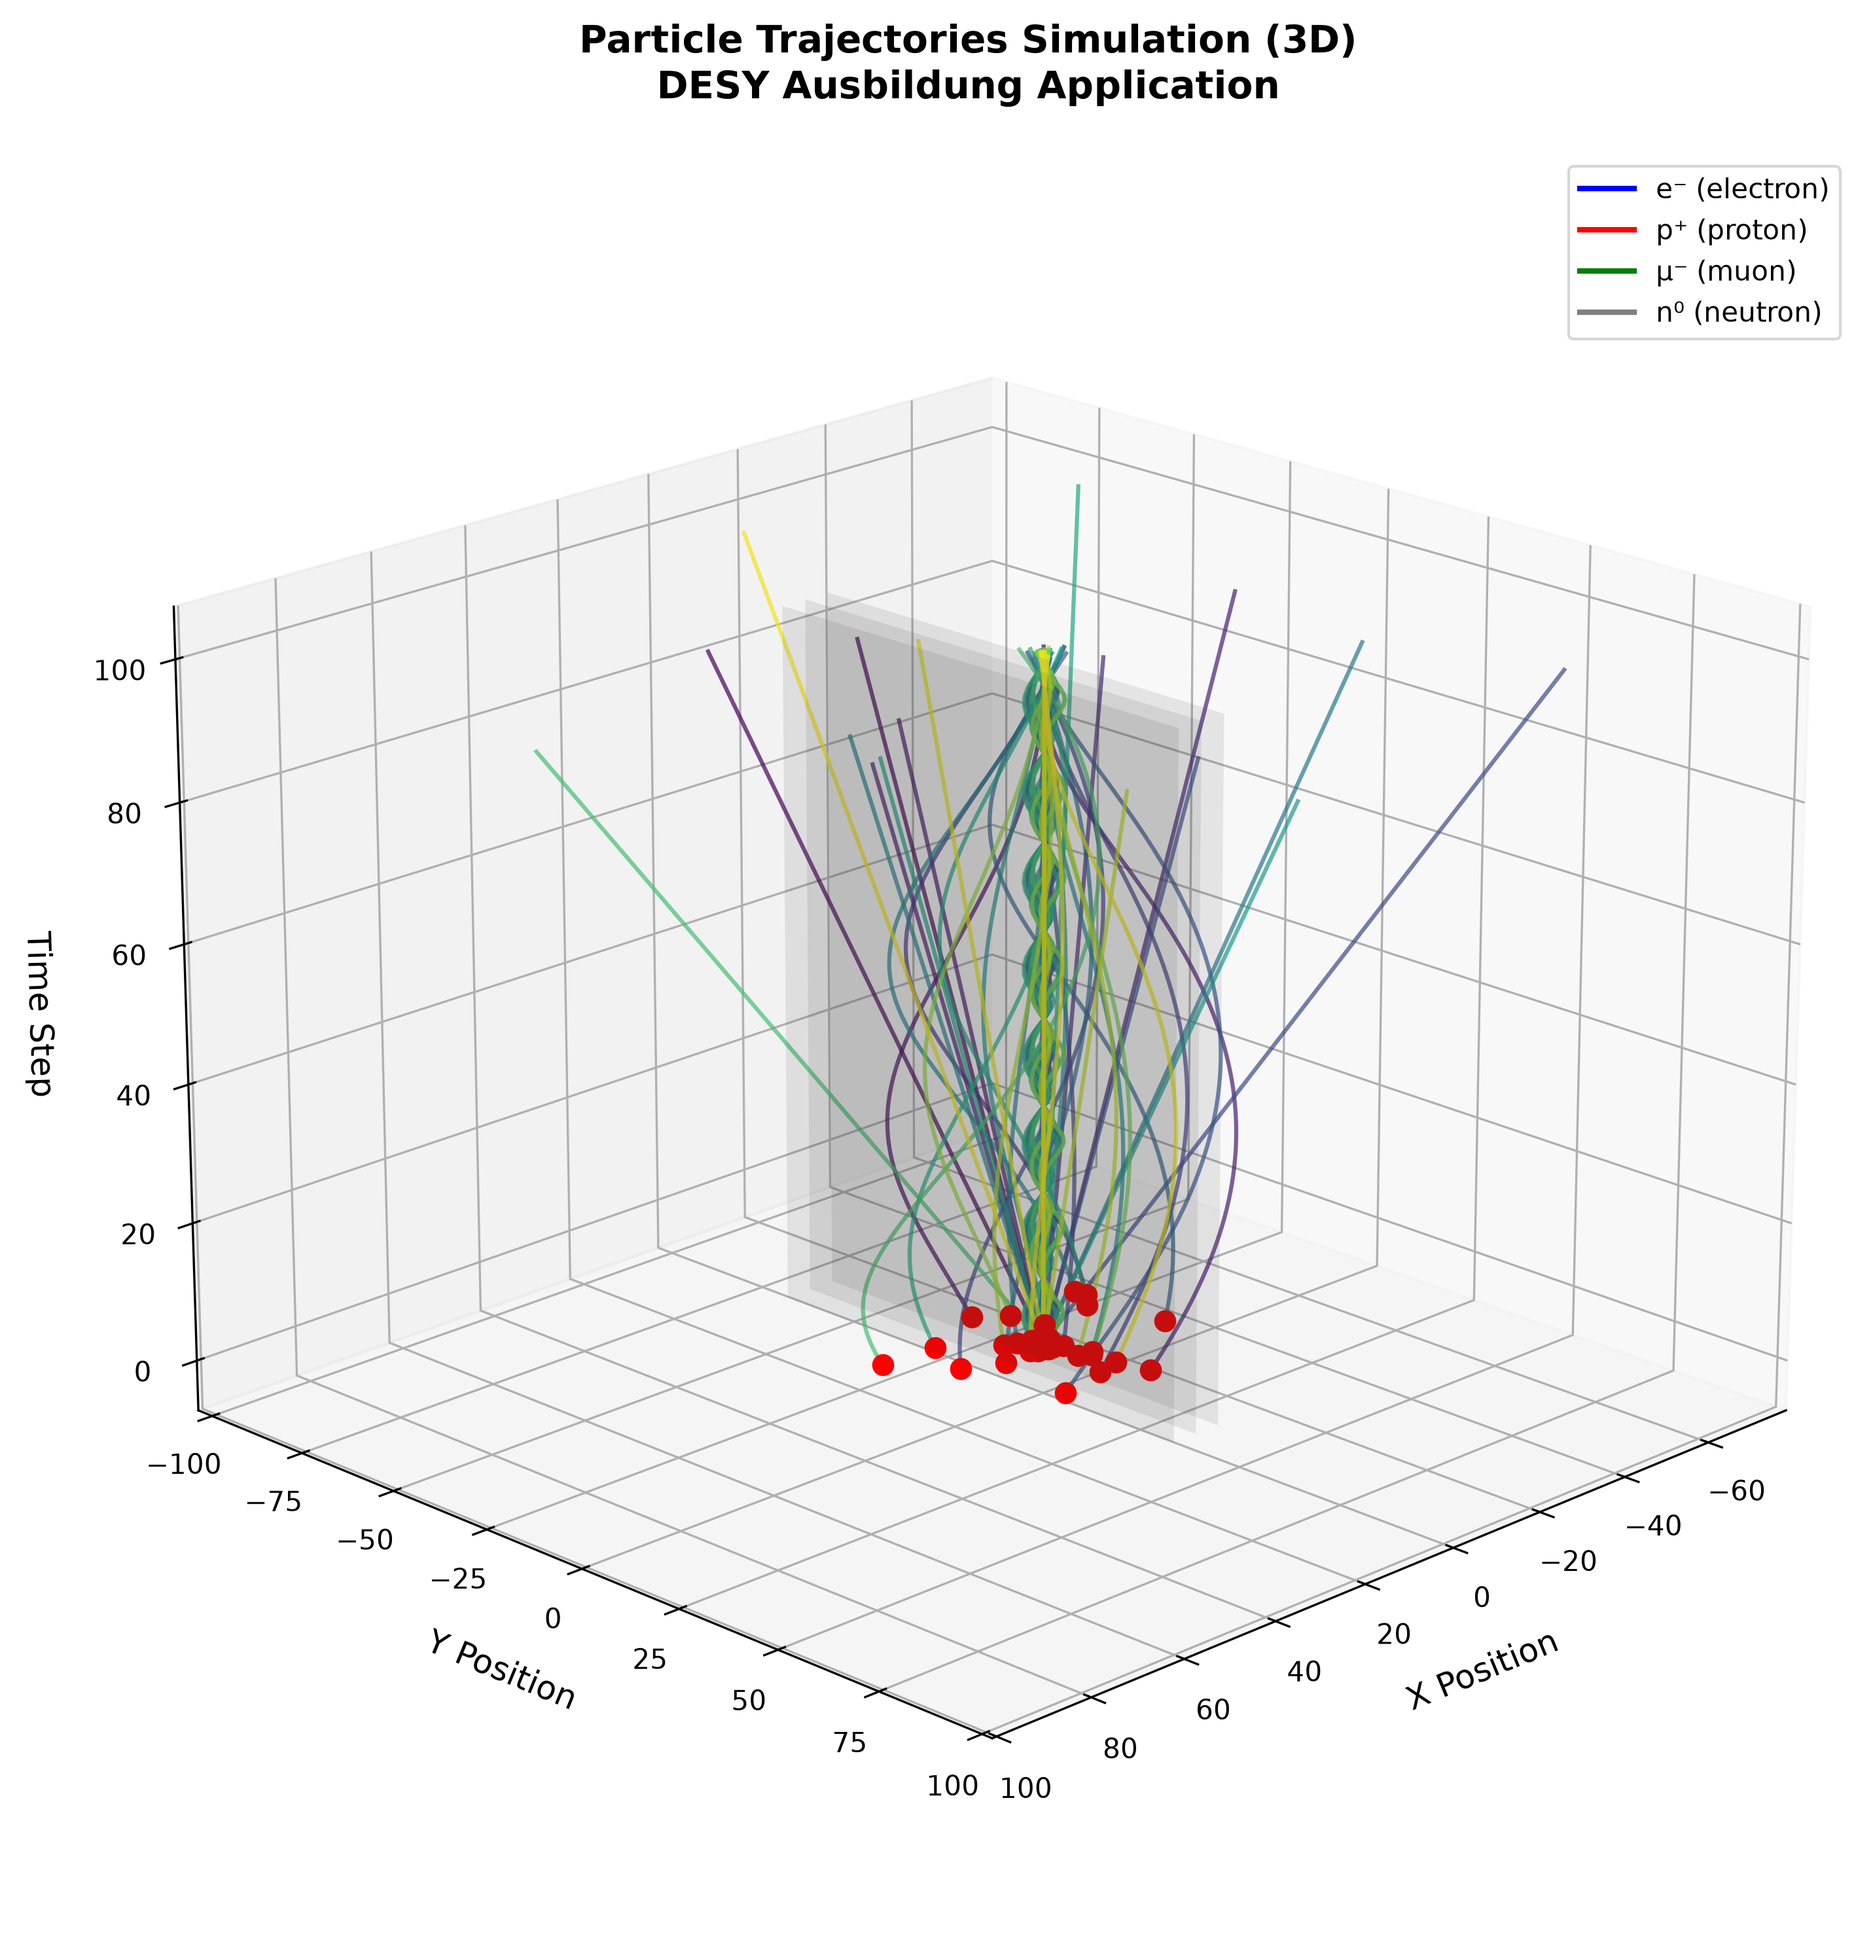
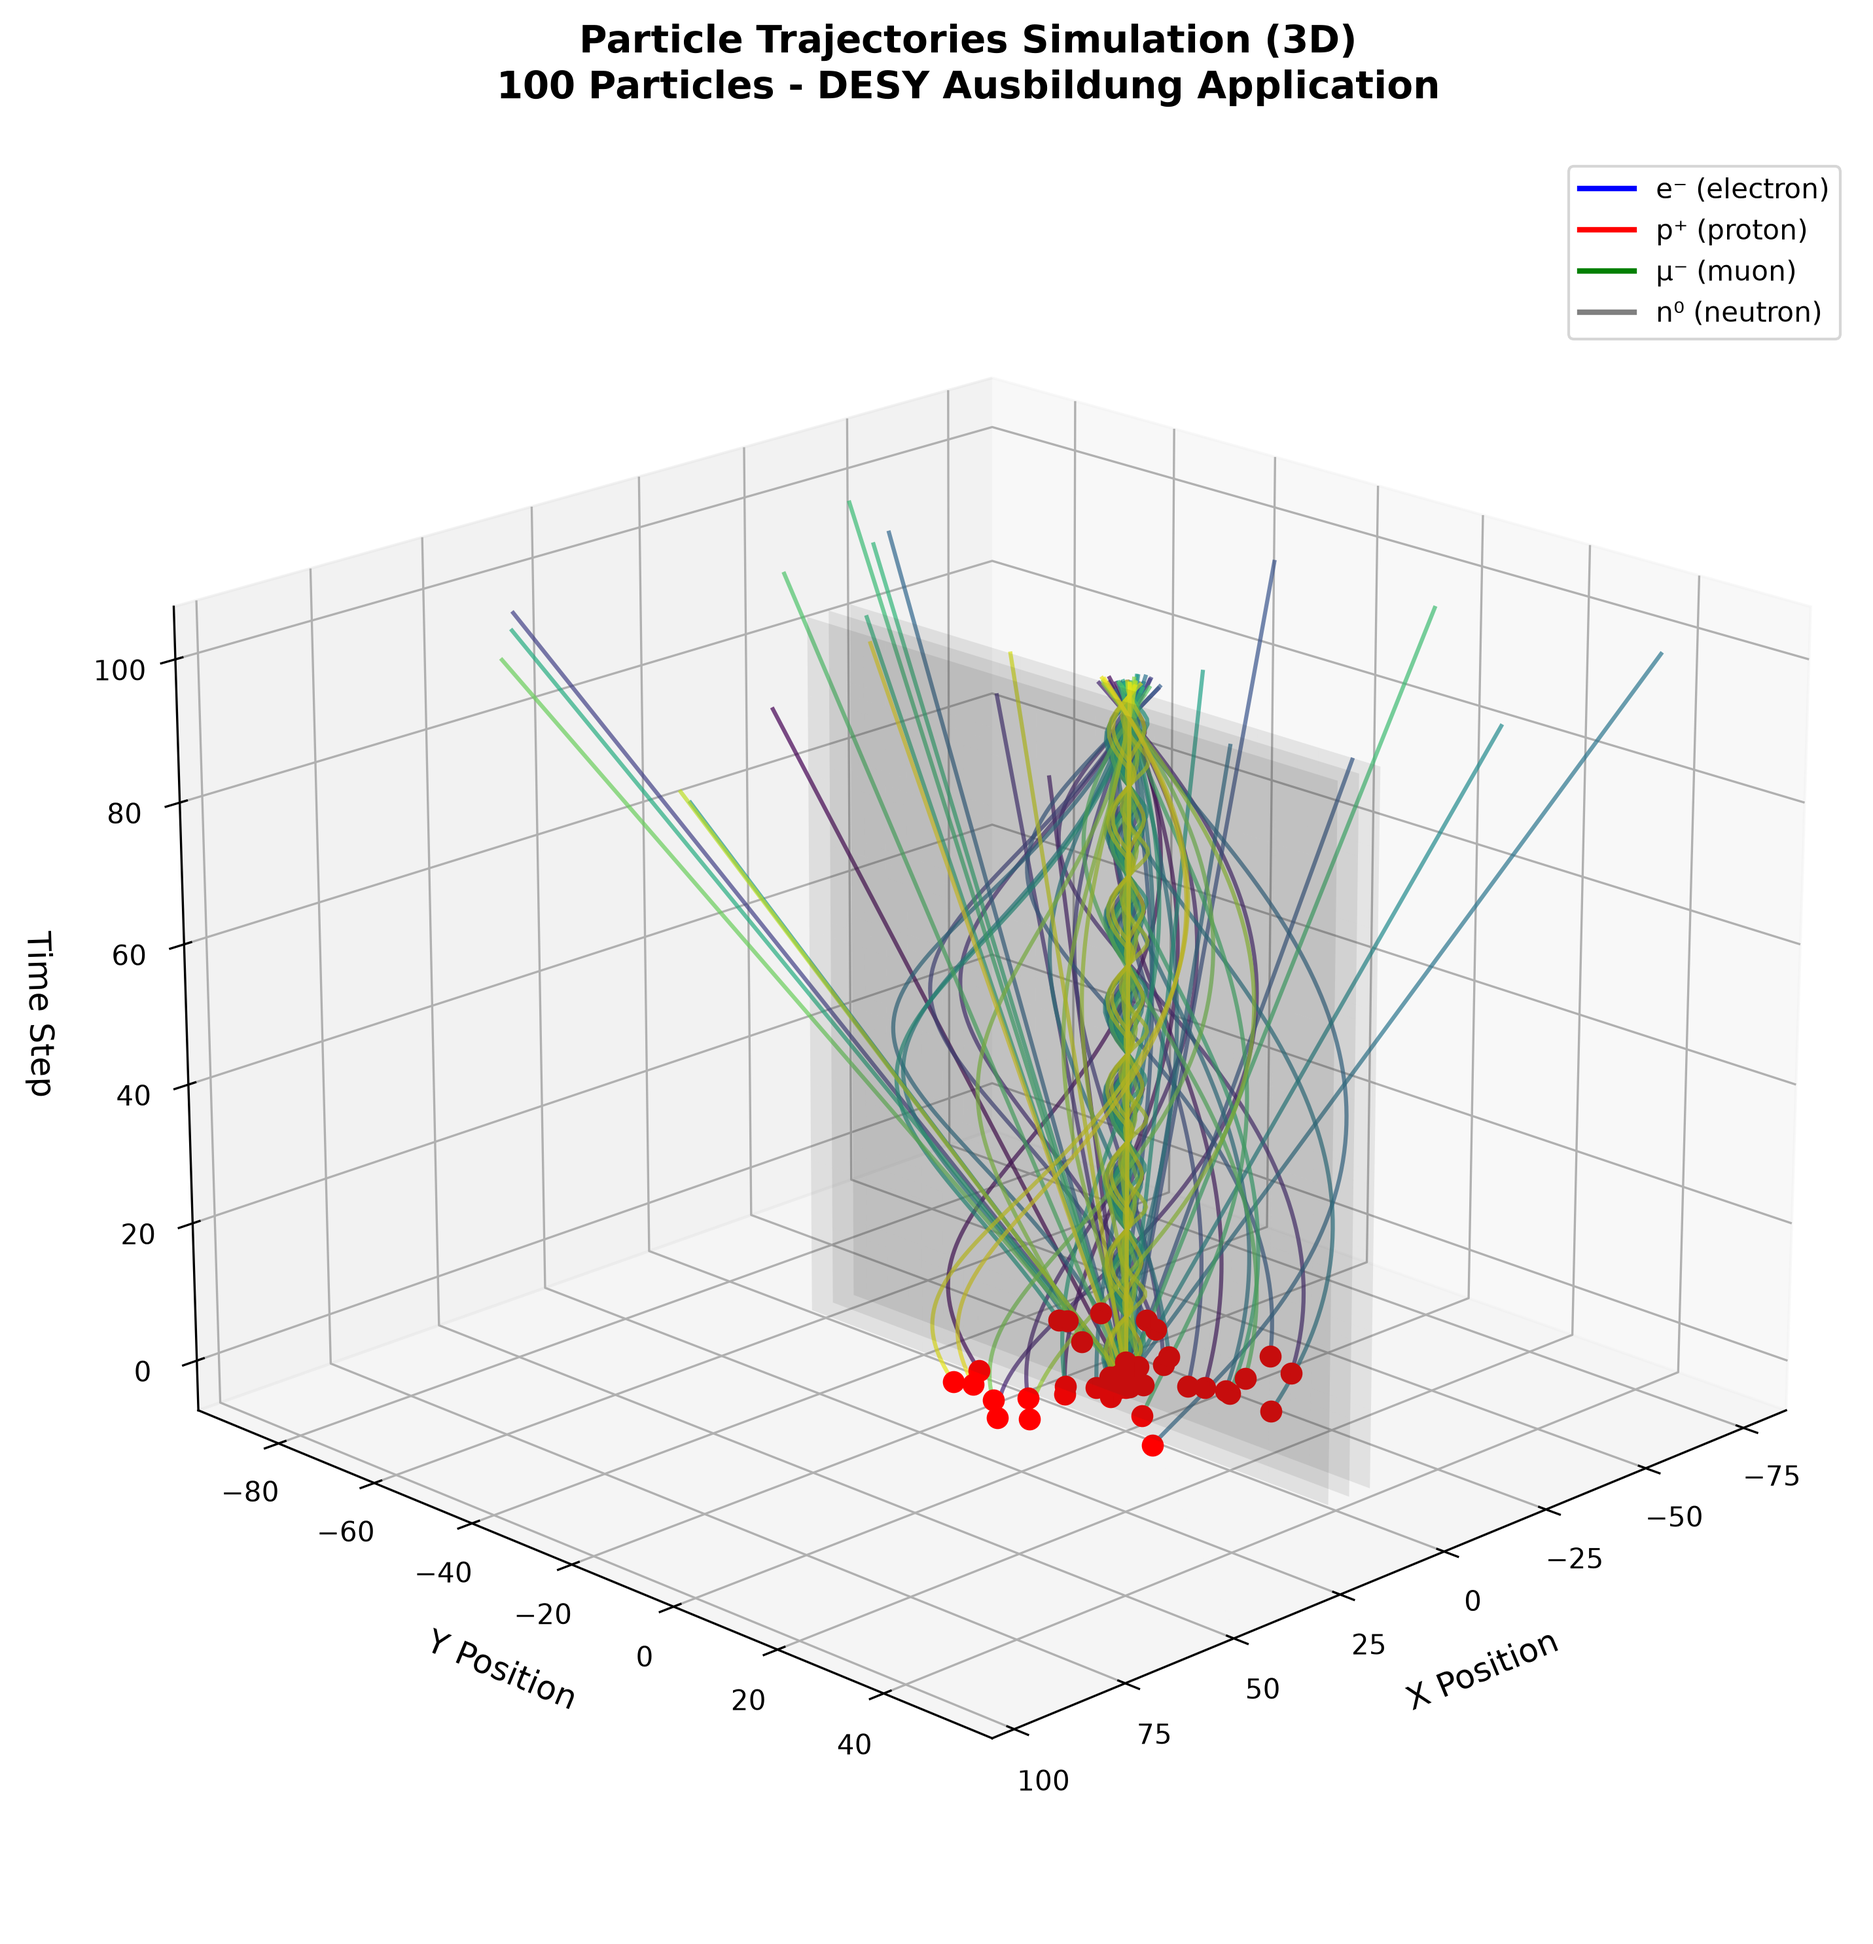
Final updates - ready for publication

diff --git a/main.py b/main.py
@@ -429,8 +429,8 @@ def plot_trajectories_3d(trajectories, detector_positions=None):
     ax.set_xlabel('X Position', fontsize=12, labelpad=10)
     ax.set_ylabel('Y Position', fontsize=12, labelpad=10)
     ax.set_zlabel('Time Step', fontsize=12, labelpad=10)
-    ax.set_title('Particle Trajectories Simulation (3D)\nDESY Ausbildung Application', 
-                 fontsize=14, fontweight='bold', pad=20)
+    ax.set_title(f'Particle Trajectories Simulation (3D)\n{len(trajectories)} Particles - DESY Ausbildung Application', 
+             fontsize=14, fontweight='bold', pad=20)
     
     # Add grid
     ax.grid(True, alpha=0.3)
@@ -510,8 +510,8 @@ def animate_trajectories(trajectories, particle_info=None, detector_positions=No
     # Labels and title
     ax.set_xlabel('X Position', fontsize=12)
     ax.set_ylabel('Y Position', fontsize=12)
-    ax.set_title('Particle Trajectories Animation\nDESY Ausbildung Application', 
-                 fontsize=14, fontweight='bold')
+    ax.set_title(f'Particle Trajectories Animation\n{len(trajectories)} Particles - DESY Ausbildung Application', 
+             fontsize=14, fontweight='bold')
     ax.grid(True, alpha=0.3)
     # Add legend for particle types
     from matplotlib.lines import Line2D
